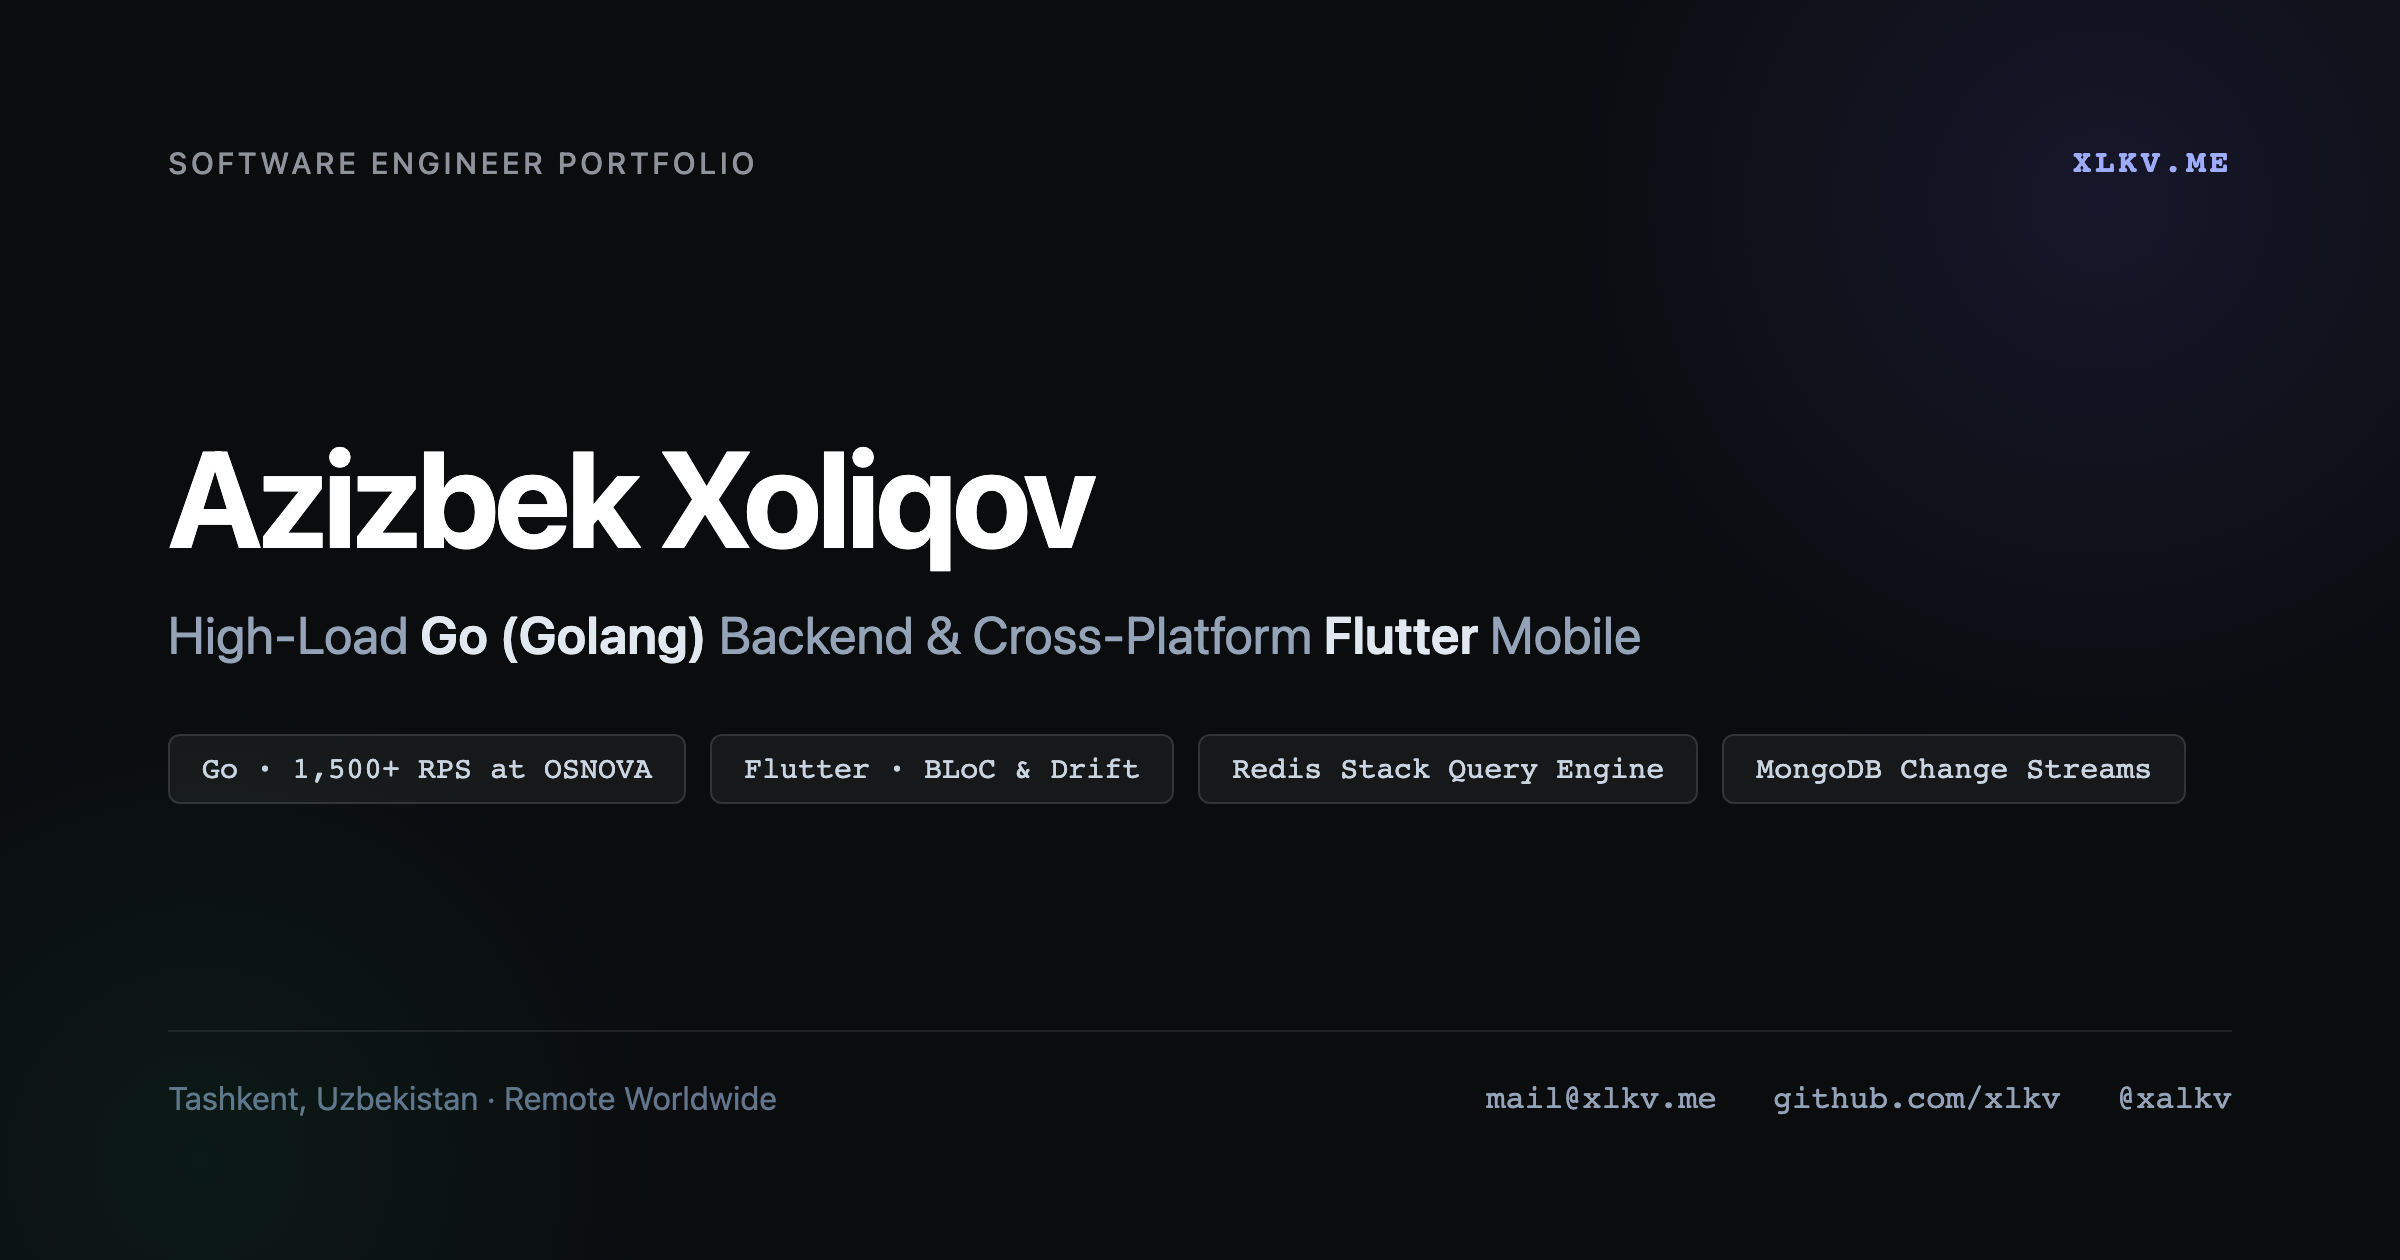
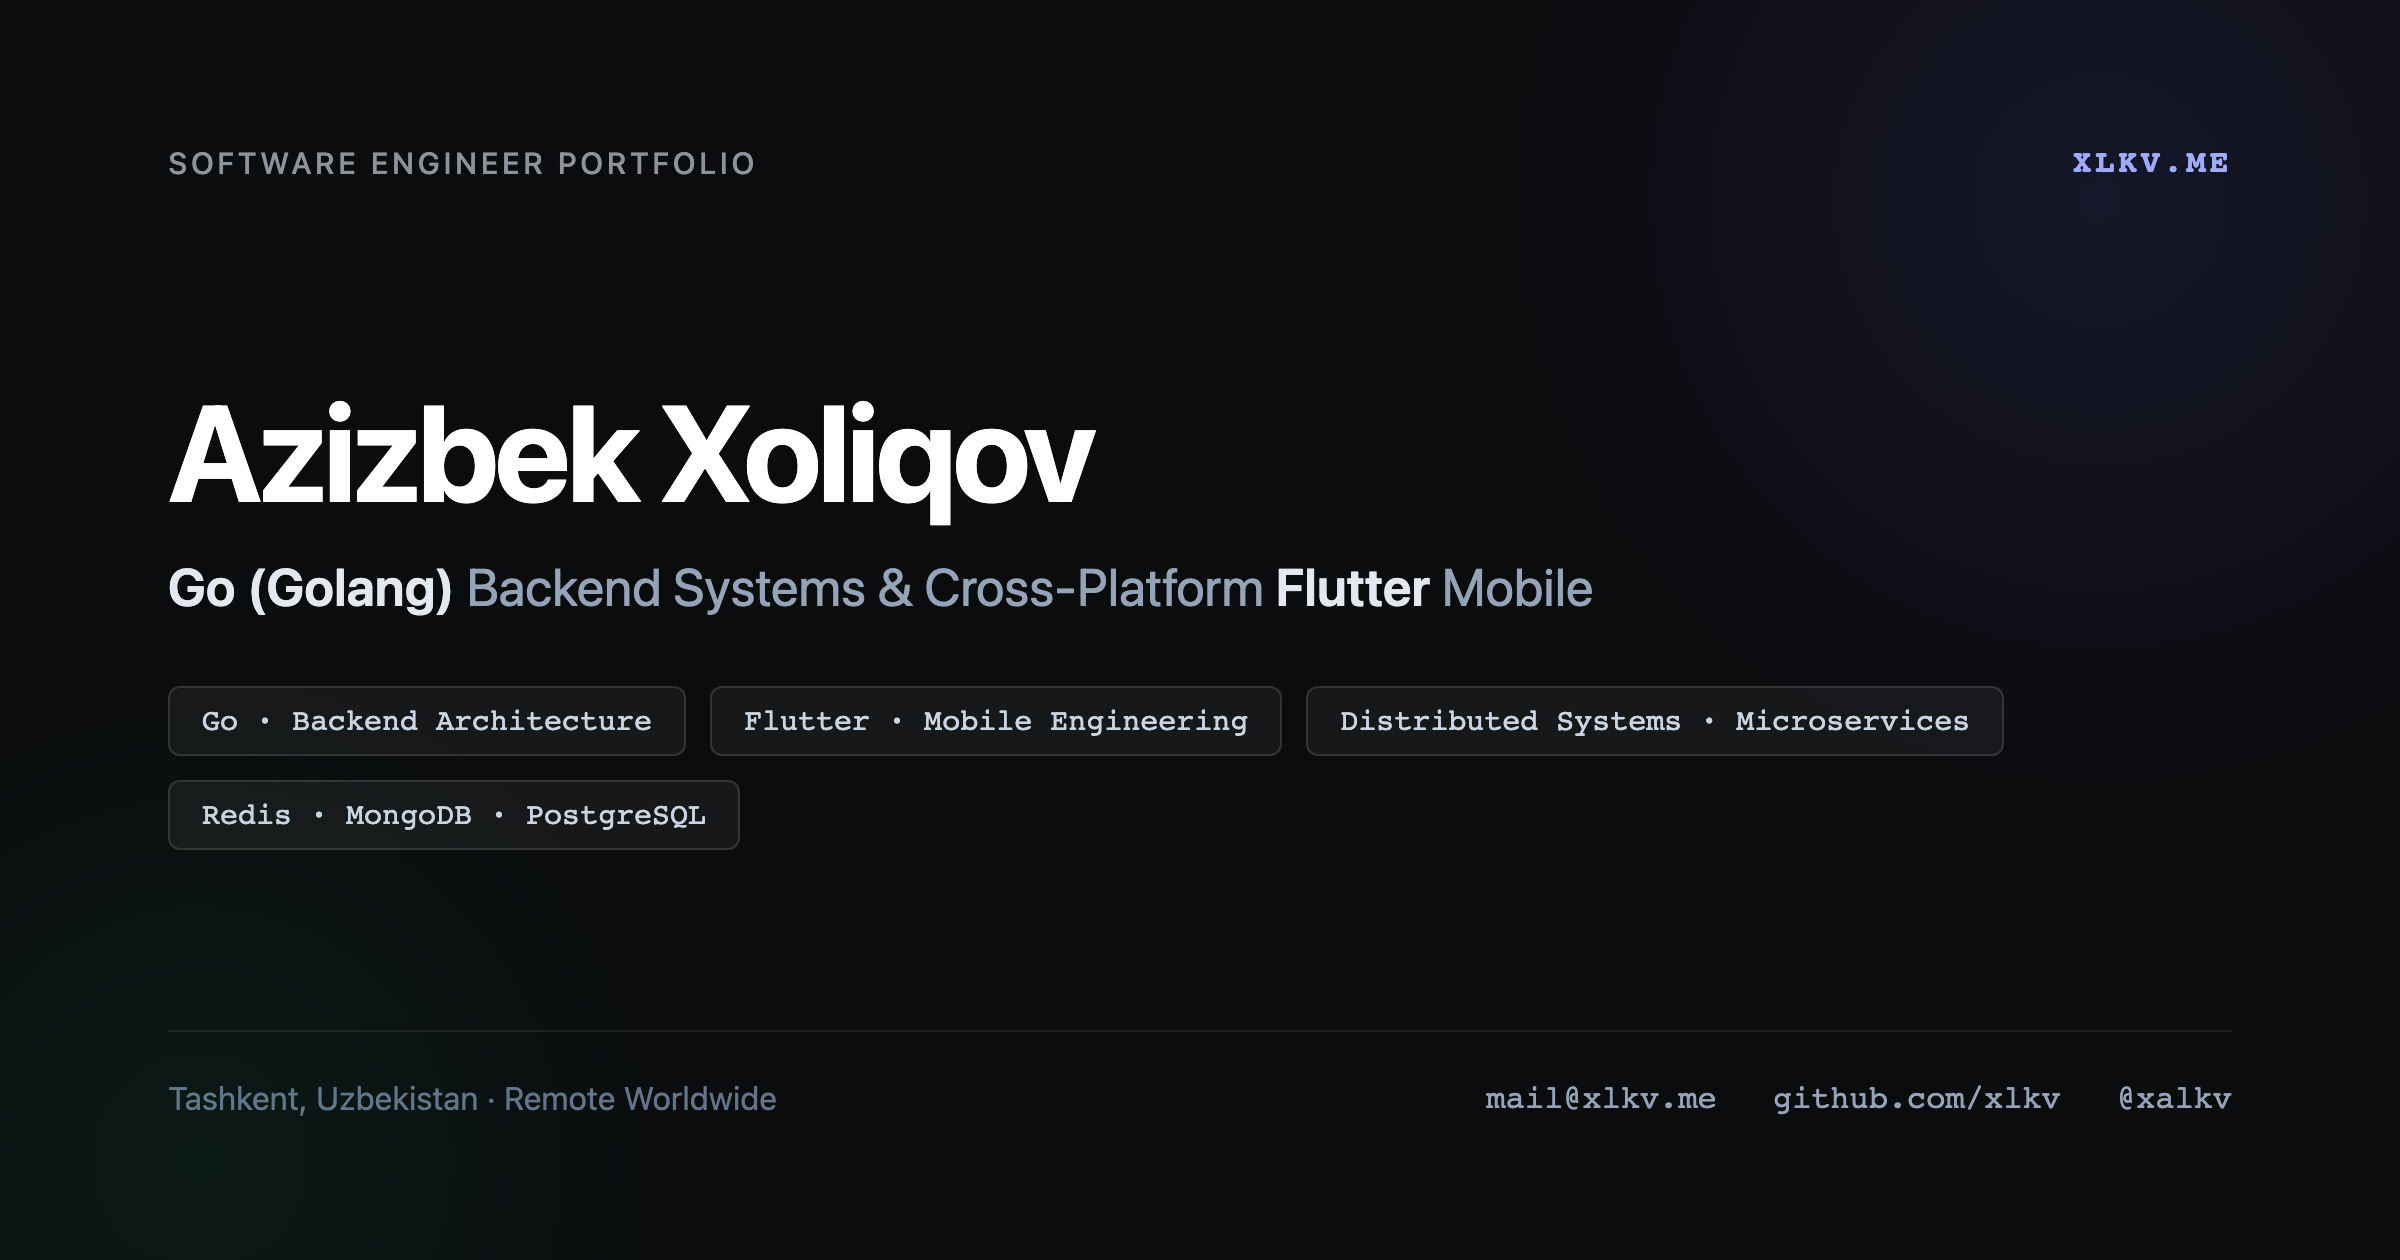
refactor(seo): sanitize SEO metadata to professional general engineering terms

Changed region(s): [[0.0625, 0.3095, 0.6875, 0.5262], [0.0625, 0.5571, 0.9062, 0.681]]

diff --git a/index.html b/index.html
@@ -12,10 +12,10 @@
 </script>
   <meta charset="UTF-8">
   <meta name="viewport" content="width=device-width, initial-scale=1.0">
-  <title>Azizbek Xoliqov — Software Engineer | High-Load Go & Mobile Flutter</title>
+  <title>Azizbek Xoliqov — Software Engineer | Go Backend & Flutter Mobile</title>
   
-  <meta name="description" content="Azizbek Xoliqov (xlkv.me) — Software Engineer specializing in high-concurrency Go backends (1,500+ RPS at OSNOVA), scalable Flutter mobile systems, and real-time distributed architecture. Contact: mail@xlkv.me">
-  <meta name="keywords" content="Azizbek Xoliqov, Aziz Kholikov, xlkv, xlkv.me, Software Engineer, Golang Developer, Go Backend Engineer, Flutter Developer, Mobile Engineer, Full Stack Developer, High-Load, 1500 RPS, Redis Stack, MongoDB Change Streams, Nginx Keepalive, Microservices, Tashkent, Remote Engineer">
+  <meta name="description" content="Azizbek Xoliqov (xlkv.me) — Software Engineer specializing in backend distributed systems with Go (Golang) and cross-platform mobile application development with Flutter. Contact: mail@xlkv.me">
+  <meta name="keywords" content="Azizbek Xoliqov, Aziz Kholikov, xlkv, xlkv.me, Software Engineer, Golang Developer, Go Backend Engineer, Flutter Developer, Mobile Engineer, Full Stack Developer, Distributed Systems, Microservices, Redis, MongoDB, PostgreSQL, Docker, Tashkent, Remote Engineer">
   <meta name="author" content="Azizbek Xoliqov">
   <meta name="robots" content="index, follow, max-image-preview:large, max-snippet:-1, max-video-preview:-1">
   <meta name="theme-color" content="#0e0e0e">
@@ -23,8 +23,8 @@
 
   <!-- Open Graph / Facebook / LinkedIn / Telegram -->
   <meta property="og:site_name" content="Azizbek Xoliqov">
-  <meta property="og:title" content="Azizbek Xoliqov — Software Engineer | High-Load Go & Mobile Flutter">
-  <meta property="og:description" content="Software Engineer with 4 years of experience building high-performance Flutter mobile apps and scalable Go backend distributed systems supporting 1,500+ RPS.">
+  <meta property="og:title" content="Azizbek Xoliqov — Software Engineer | Go Backend & Flutter Mobile">
+  <meta property="og:description" content="Software Engineer with 4 years of experience building scalable Go backend systems and cross-platform Flutter mobile applications.">
   <meta property="og:url" content="https://xlkv.me/">
   <meta property="og:type" content="profile">
   <meta property="profile:first_name" content="Azizbek">
@@ -38,8 +38,8 @@
 
   <!-- Twitter / X -->
   <meta name="twitter:card" content="summary_large_image">
-  <meta name="twitter:title" content="Azizbek Xoliqov — Software Engineer | High-Load Go & Mobile Flutter">
-  <meta name="twitter:description" content="Software Engineer specializing in high-concurrency Go distributed systems (1,500+ RPS) and production Flutter mobile applications.">
+  <meta name="twitter:title" content="Azizbek Xoliqov — Software Engineer | Go Backend & Flutter Mobile">
+  <meta name="twitter:description" content="Software Engineer specializing in scalable Go backends and cross-platform Flutter mobile applications.">
   <meta name="twitter:image" content="https://xlkv.me/og-image.png">
   <meta name="twitter:image:alt" content="Azizbek Xoliqov — Software Engineer">
 
@@ -85,19 +85,20 @@
           "@type": "Organization",
           "name": "OSNOVA"
         },
-        "description": "Software Engineer with 4 years of experience specializing in high-concurrency Go backends (1,500+ RPS at OSNOVA) and cross-platform Flutter mobile applications.",
+        "description": "Software Engineer with 4 years of experience specializing in scalable Go backend systems, distributed architecture, and cross-platform Flutter mobile applications.",
         "knowsAbout": [
           "Go (Golang)",
           "Flutter",
           "Dart",
-          "High-Load Backend Systems",
+          "Backend Engineering",
           "Distributed Architecture",
-          "Redis Stack Query Engine",
-          "MongoDB Change Streams",
-          "Nginx Upstream Keepalive",
+          "Microservices",
+          "Redis",
+          "MongoDB",
+          "Nginx",
+          "PostgreSQL",
           "BLoC",
           "Riverpod",
-          "Drift SQLite",
           "Docker",
           "gRPC",
           "REST APIs",

diff --git a/cv/golang-backend-engineer.html b/cv/golang-backend-engineer.html
@@ -3,26 +3,26 @@
 <head>
   <meta charset="UTF-8">
   <meta name="viewport" content="width=device-width, initial-scale=1.0">
-  <title>Azizbek Xoliqov — Software Engineer (Go & High-Load Backend)</title>
+  <title>Azizbek Xoliqov — Software Engineer (Go & Backend Systems)</title>
   
-  <meta name="description" content="Resume of Azizbek Xoliqov: Software Engineer specializing in Go (Golang) distributed systems, 1,500+ RPS architectures at OSNOVA, Redis Stack query engine, and MongoDB change stream synchronization.">
-  <meta name="keywords" content="Azizbek Xoliqov, Golang Developer, Go Backend Engineer, High-Load Systems, 1500 RPS, Redis Stack, MongoDB Change Streams, Nginx Upstream Keepalive, Microservices, Go CV">
+  <meta name="description" content="Resume of Azizbek Xoliqov: Software Engineer specializing in Go (Golang) backend microservices, distributed systems, in-memory caching, and real-time database synchronization.">
+  <meta name="keywords" content="Azizbek Xoliqov, Golang Developer, Go Backend Engineer, Backend Systems, Distributed Systems, Redis, MongoDB, PostgreSQL, Microservices, REST API, gRPC, Go CV">
   <meta name="author" content="Azizbek Xoliqov">
   <meta name="robots" content="index, follow">
   <link rel="canonical" href="https://xlkv.me/cv/golang-backend-engineer.html">
 
   <!-- Open Graph -->
   <meta property="og:site_name" content="Azizbek Xoliqov">
-  <meta property="og:title" content="Azizbek Xoliqov — Software Engineer (Go & High-Load Backend)">
-  <meta property="og:description" content="Go Backend Engineer with 4 years experience. 1,500+ RPS at OSNOVA, Redis Stack query engine, MongoDB real-time watchers.">
+  <meta property="og:title" content="Azizbek Xoliqov — Software Engineer (Go & Backend Systems)">
+  <meta property="og:description" content="Go Backend Engineer with 4 years experience in microservices, distributed caching, and database synchronization.">
   <meta property="og:url" content="https://xlkv.me/cv/golang-backend-engineer.html">
   <meta property="og:type" content="profile">
   <meta property="og:image" content="https://xlkv.me/og-image.png">
 
   <!-- Twitter -->
   <meta name="twitter:card" content="summary_large_image">
-  <meta name="twitter:title" content="Azizbek Xoliqov — Software Engineer (Go & High-Load Backend)">
-  <meta name="twitter:description" content="Go distributed systems, 1,500+ RPS, Redis Stack, and MongoDB watchers.">
+  <meta name="twitter:title" content="Azizbek Xoliqov — Software Engineer (Go & Backend Systems)">
+  <meta name="twitter:description" content="Go backend systems, distributed caching, microservices, and database synchronization.">
   <meta name="twitter:image" content="https://xlkv.me/og-image.png">
 
   <!-- Schema.org JSON-LD -->
@@ -41,7 +41,7 @@
       "url": "https://xlkv.me/cv/golang-backend-engineer.html",
       "email": "mailto:mail@xlkv.me",
       "telephone": "+998700100076",
-      "knowsAbout": ["Go", "Golang", "High-Concurrency (1500+ RPS)", "Redis Stack", "MongoDB Watchers", "Nginx Keepalive", "Docker", "REST API", "Microservices"]
+      "knowsAbout": ["Go", "Golang", "Backend Systems", "Distributed Architecture", "Redis", "MongoDB", "PostgreSQL", "Nginx", "Docker", "REST API", "gRPC", "Microservices"]
     }
   }
   </script>

diff --git a/cv/fullstack-software-engineer.html b/cv/fullstack-software-engineer.html
@@ -5,8 +5,8 @@
   <meta name="viewport" content="width=device-width, initial-scale=1.0">
   <title>Azizbek Xoliqov — Full-Stack Software Engineer (Go & Flutter)</title>
   
-  <meta name="description" content="Resume of Azizbek Xoliqov: Full-Stack Software Engineer bridging high-concurrency Go backends (1,500+ RPS) with cross-platform Flutter clients and real-time distributed data pipelines.">
-  <meta name="keywords" content="Azizbek Xoliqov, Full Stack Developer, Software Engineer, Golang, Go Backend, Flutter, Mobile, Redis Stack, MongoDB, Fullstack Resume, xlkv.me">
+  <meta name="description" content="Resume of Azizbek Xoliqov: Full-Stack Software Engineer bridging scalable Go backends with cross-platform Flutter clients and modern distributed architectures.">
+  <meta name="keywords" content="Azizbek Xoliqov, Full Stack Developer, Software Engineer, Golang, Go Backend, Flutter, Mobile, Redis, MongoDB, PostgreSQL, Fullstack Resume, xlkv.me">
   <meta name="author" content="Azizbek Xoliqov">
   <meta name="robots" content="index, follow">
   <link rel="canonical" href="https://xlkv.me/cv/fullstack-software-engineer.html">
@@ -14,7 +14,7 @@
   <!-- Open Graph -->
   <meta property="og:site_name" content="Azizbek Xoliqov">
   <meta property="og:title" content="Azizbek Xoliqov — Full-Stack Software Engineer (Go & Flutter)">
-  <meta property="og:description" content="End-to-end distributed architecture: Go backend systems (1,500+ RPS) and Flutter cross-platform applications.">
+  <meta property="og:description" content="End-to-end software engineering: Go backend distributed systems and Flutter cross-platform applications.">
   <meta property="og:url" content="https://xlkv.me/cv/fullstack-software-engineer.html">
   <meta property="og:type" content="profile">
   <meta property="og:image" content="https://xlkv.me/og-image.png">
@@ -22,7 +22,7 @@
   <!-- Twitter -->
   <meta name="twitter:card" content="summary_large_image">
   <meta name="twitter:title" content="Azizbek Xoliqov — Full-Stack Software Engineer (Go & Flutter)">
-  <meta name="twitter:description" content="End-to-end distributed systems: Go backends (1,500+ RPS) and Flutter mobile apps.">
+  <meta name="twitter:description" content="End-to-end software engineering: Go backend systems and Flutter mobile applications.">
   <meta name="twitter:image" content="https://xlkv.me/og-image.png">
 
   <!-- Schema.org JSON-LD -->
@@ -41,7 +41,7 @@
       "url": "https://xlkv.me/cv/fullstack-software-engineer.html",
       "email": "mailto:mail@xlkv.me",
       "telephone": "+998700100076",
-      "knowsAbout": ["Go", "Golang", "Flutter", "Dart", "High-Concurrency (1500+ RPS)", "Redis Stack", "MongoDB Watchers", "Full-Stack Architecture", "Docker"]
+      "knowsAbout": ["Go", "Golang", "Flutter", "Dart", "Backend Engineering", "Mobile Engineering", "Redis", "MongoDB", "PostgreSQL", "Full-Stack Architecture", "Docker", "REST API"]
     }
   }
   </script>

diff --git a/cv/index.html b/cv/index.html
@@ -3,9 +3,9 @@
 <head>
   <meta charset="UTF-8">
   <meta name="viewport" content="width=device-width, initial-scale=1.0">
-  <title>Curriculum Vitae & Resumes — Azizbek Xoliqov (Go Backend & Flutter)</title>
+  <title>Curriculum Vitae & Resumes — Azizbek Xoliqov (Go & Flutter)</title>
   
-  <meta name="description" content="Official engineering resumes for Azizbek Xoliqov: Golang Backend Engineer (1,500+ RPS), Flutter & Mobile Engineer, and Full-Stack Software Engineer. Available in web and ATS PDF formats.">
+  <meta name="description" content="Official engineering resumes for Azizbek Xoliqov: Golang Backend Engineer, Flutter & Mobile Engineer, and Full-Stack Software Engineer. Available in web and ATS PDF formats.">
   <meta name="keywords" content="Azizbek Xoliqov CV, Azizbek Xoliqov Resume, Golang Resume, Flutter Resume, Mobile Engineer CV, Full Stack CV, Software Engineer ATS Resume, xlkv.me">
   <meta name="author" content="Azizbek Xoliqov">
   <meta name="robots" content="index, follow, max-image-preview:large">
@@ -15,7 +15,7 @@
   <!-- Open Graph -->
   <meta property="og:site_name" content="Azizbek Xoliqov">
   <meta property="og:title" content="Curriculum Vitae & Resumes — Azizbek Xoliqov">
-  <meta property="og:description" content="Official engineering resumes: Golang Backend Engineer (1,500+ RPS), Flutter & Mobile Engineer, and Full-Stack Software Engineer.">
+  <meta property="og:description" content="Official engineering resumes: Golang Backend Engineer, Flutter & Mobile Engineer, and Full-Stack Software Engineer.">
   <meta property="og:url" content="https://xlkv.me/cv/">
   <meta property="og:type" content="profile">
   <meta property="og:image" content="https://xlkv.me/og-image.png">

diff --git a/cv/flutter-mobile-engineer.html b/cv/flutter-mobile-engineer.html
@@ -3,10 +3,10 @@
 <head>
   <meta charset="UTF-8">
   <meta name="viewport" content="width=device-width, initial-scale=1.0">
-  <title>Azizbek Xoliqov — Software Engineer (Flutter & Mobile Architecture)</title>
+  <title>Azizbek Xoliqov — Software Engineer (Flutter & Mobile)</title>
   
-  <meta name="description" content="Resume of Azizbek Xoliqov: Mobile Software Engineer with 4 years of experience specializing in cross-platform Flutter, Dart, BLoC, Riverpod, Drift offline-first storage, and FinTech integrations.">
-  <meta name="keywords" content="Azizbek Xoliqov, Flutter Developer, Mobile Engineer, Dart, Flutter BLoC, Riverpod, Drift SQLite, iOS, Android, FinTech Mobile App, Flutter CV">
+  <meta name="description" content="Resume of Azizbek Xoliqov: Mobile Software Engineer with 4 years of experience specializing in cross-platform Flutter, Dart, state management (BLoC, Riverpod), offline-first architectures, and mobile APIs.">
+  <meta name="keywords" content="Azizbek Xoliqov, Flutter Developer, Mobile Engineer, Dart, Flutter BLoC, Riverpod, Drift SQLite, iOS, Android, Cross-Platform Development, Mobile Architecture, Flutter CV">
   <meta name="author" content="Azizbek Xoliqov">
   <meta name="robots" content="index, follow">
   <link rel="canonical" href="https://xlkv.me/cv/flutter-mobile-engineer.html">
